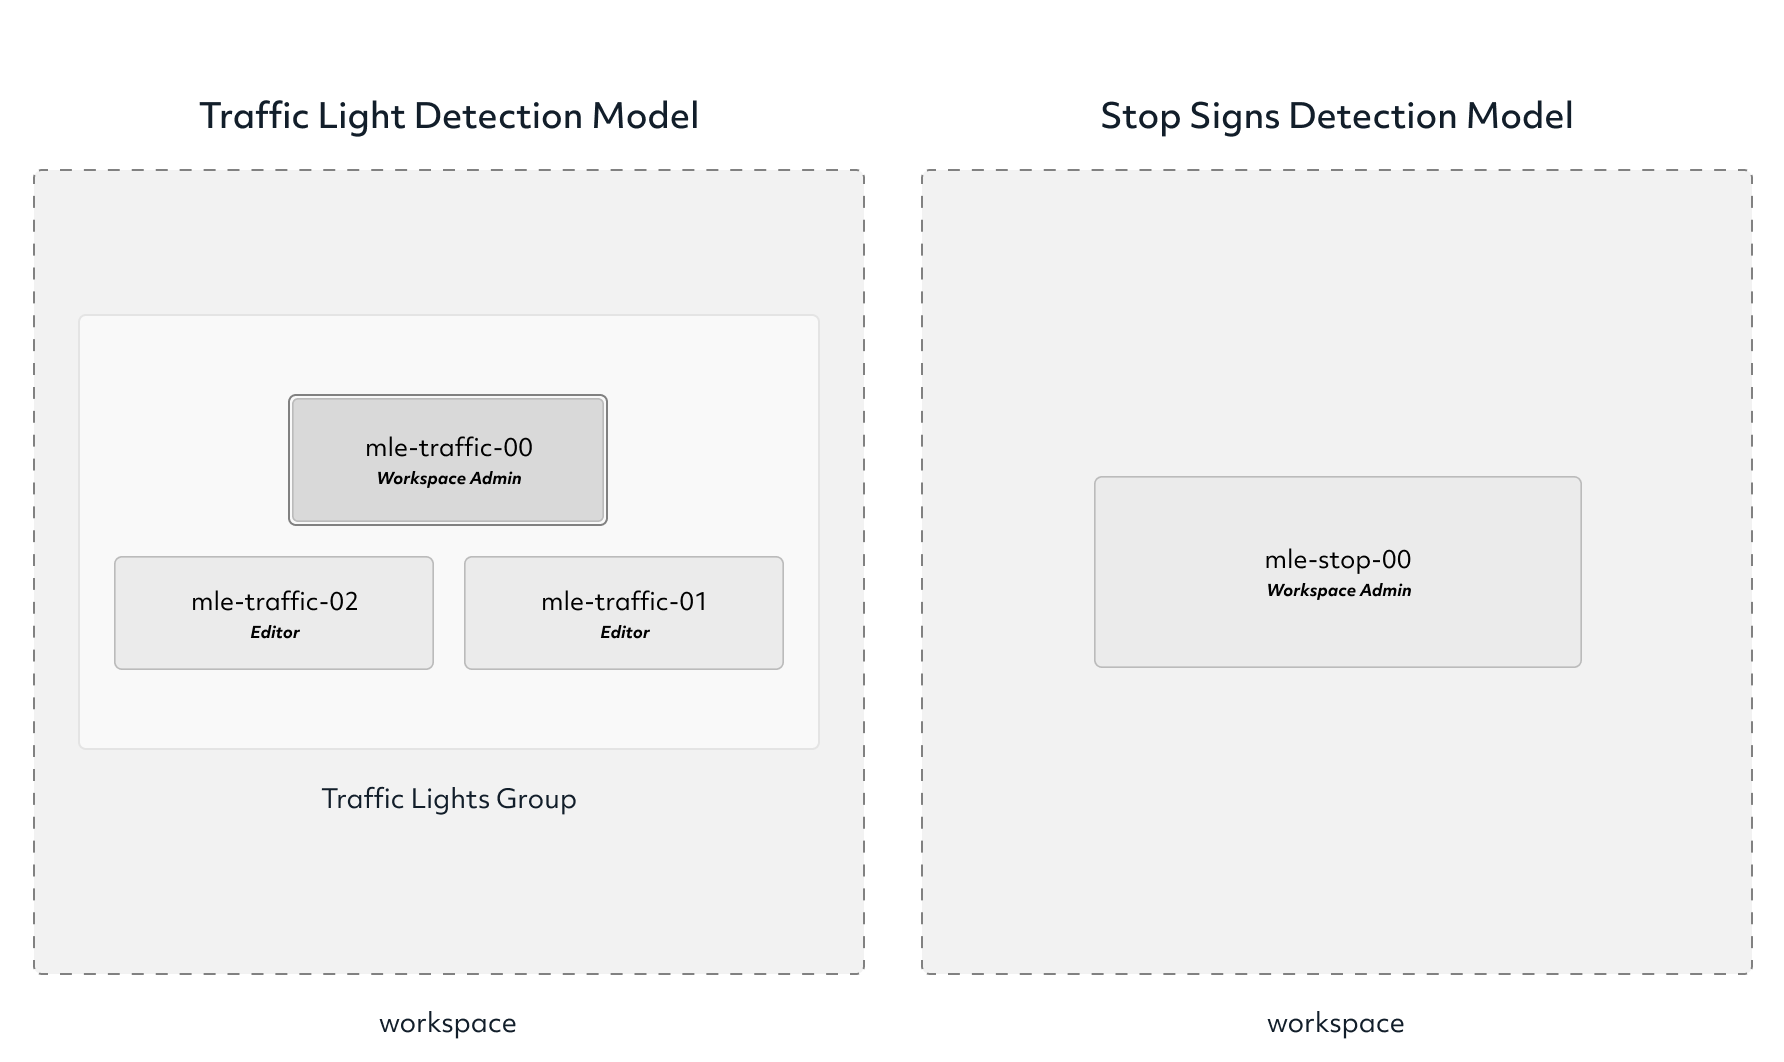
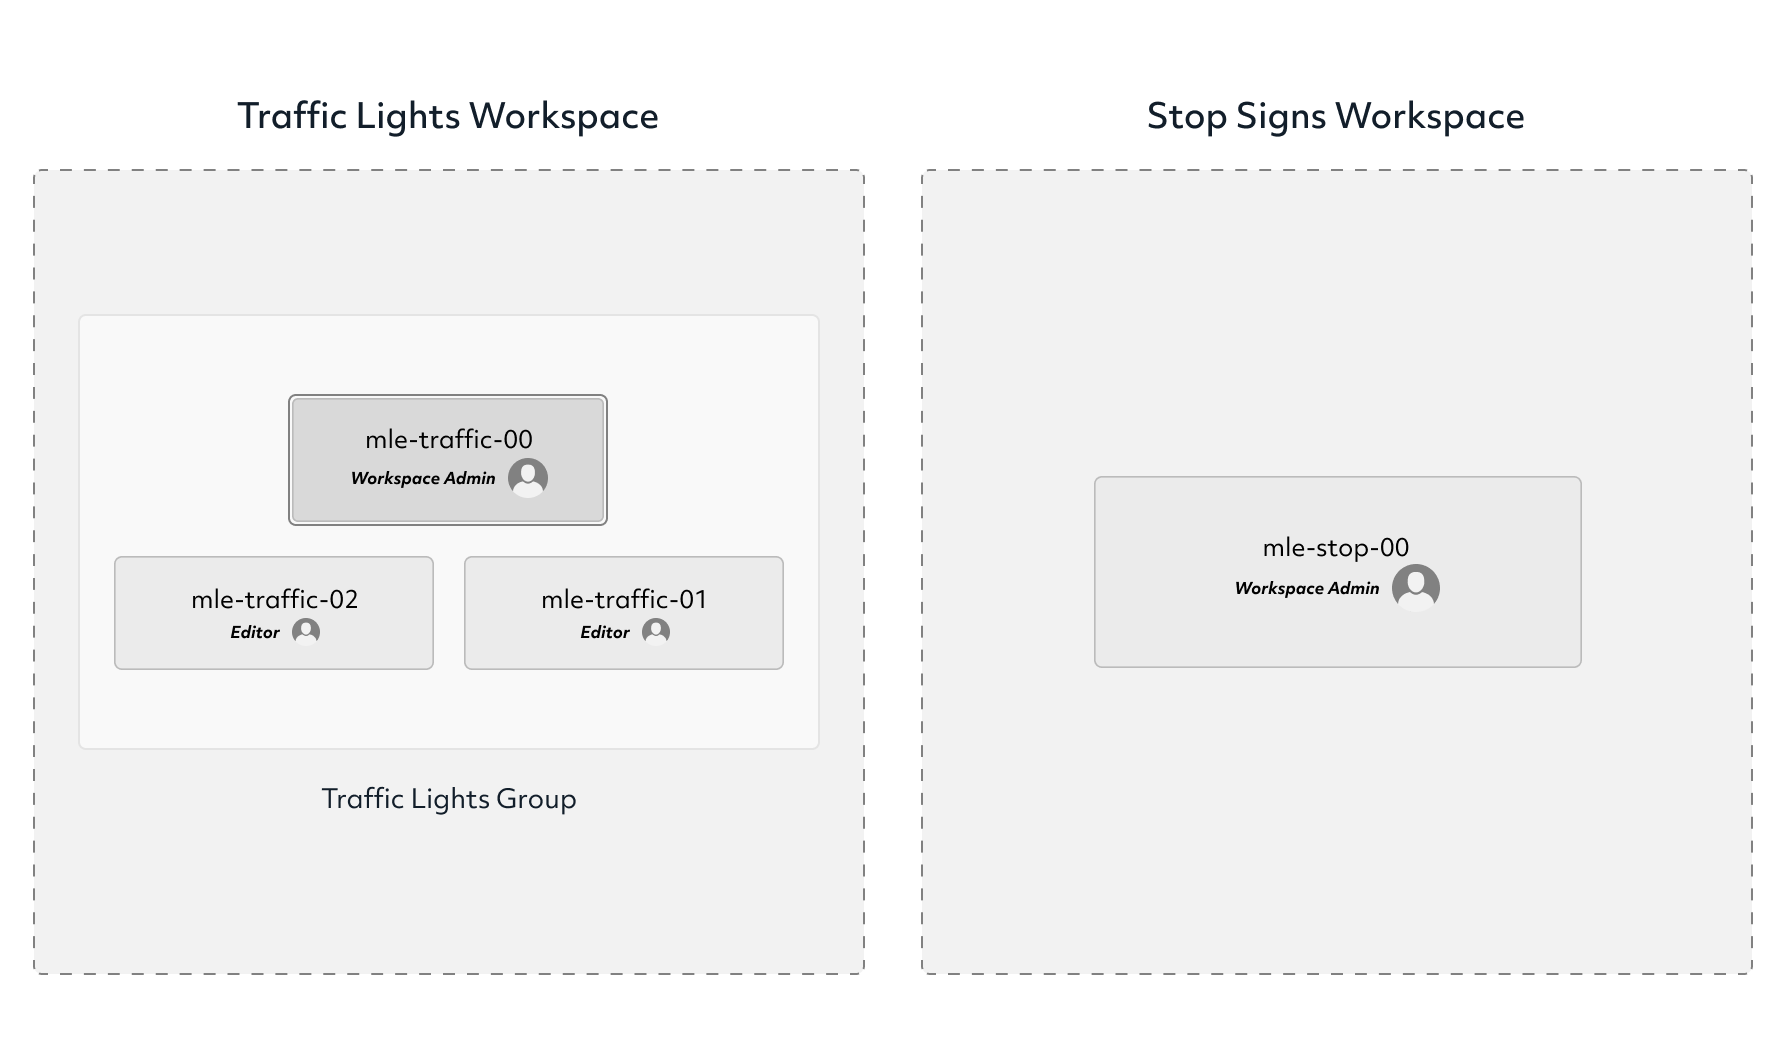
rework the diagram per feedback

diff --git a/docs/cluster-setup-guide/security/rbac.rst b/docs/cluster-setup-guide/security/rbac.rst
@@ -87,11 +87,18 @@ workspace.
 
 We now have two independent workspaces, one for each team.
 
-   .. image:: /assets/images/rbac-example-setup-light.png
-      :alt: Example of a role-based access control setup.
+.. image:: /assets/images/rbac-example-setup-dark.png
+   :class: only-dark
+   :alt: Determined AI system architecture diagram dark mode
 
-You can learn more about pre-canned roles such as ``Editor``, ``WorkspaceAdmin`` :ref:`in the
-section below <rbac-precanned>`.
+.. image:: /assets/images/rbac-example-setup-light.png
+   :class: only-light
+   :alt: Determined AI system architecture diagram light mode
+
+.. note::
+
+   You can learn more about pre-canned roles such as ``Editor``, ``WorkspaceAdmin`` :ref:`in the
+   Pre-Canned Roles section <rbac-precanned>`.
 
 Determined requires the projects to exist within the workspaces to run and organize the experiments.
 Project creation requires ``PERMISSION_TYPE_CREATE_PROJECT`` permission which is included in
@@ -416,7 +423,7 @@ well as their subcommands:
 .. _rbac-precanned:
 
 ******************
- Pre-Canned roles
+ Pre-Canned Roles
 ******************
 
 Determined ships with several pre-canned roles. We are looking to add an ability to edit or create
